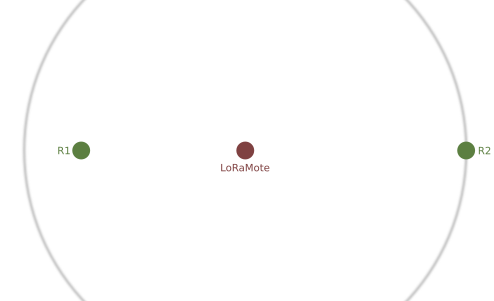
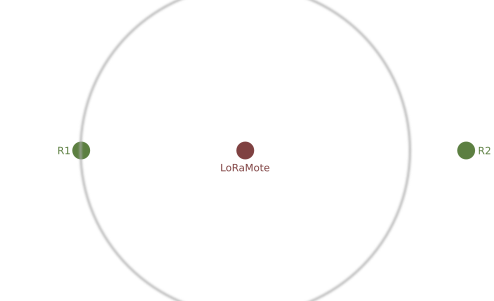
Added images and slides

diff --git a/index.html b/index.html
@@ -39,20 +39,6 @@
                     <p style="font-size: 150%"><a href="https://selinux.github.io/presentation_LoRa_Bachelor">https://goo.gl/wVitFB</a></p>
                 </section>
 
-                    <section>
-                         <div data-svg-fragment="images/schema_DToA_2d_test.svg"></div>
-                    </section>
-                    <section data-transition="none">
-<!--                        Conversion du temps en distance
-<hr>-->
-                        <div data-svg-fragment="images/schema_DToA_2d.svg#[*|label=slide0]">
-                          <a class="fragment" href="[*|label=slide1]"></a>
-                          <a class="fragment" href="[*|label=slide2]"></a>
-                          <a class="fragment" href="[*|label=slide3]"></a>
-                          <a class="fragment" href="[*|label=slide4]"></a>
-                          <a class="fragment" href="[*|label=slide5]"></a>
-                        </div>
-                    </section>
                 <!-- Title -->
                 <section> 
                     <img src="logo_hepia.png" width="2300">
@@ -144,9 +130,9 @@
                         <p class="fragment fade-in" style="font-size: 80%" align=left>Les récepteurs ont besoin d'être synchronisés</p>
                         <p class="fragment fade-in" style="font-size: 80%" align=left>Le réseau GPS est utilisé comme source de temps par les récepteurs</p>
                     </section>
-                    <section data-transition="none">
-<!--                        Conversion du temps en distance
-<hr>-->
+                    <!-- <section data-transition="none">
+                        Conversion du temps en distance
+                        <hr>
                         <div data-svg-fragment="images/schema_DToA_2d.svg#[*|label=slide0]">
                           <a class="fragment" href="[*|label=slide1]"></a>
                           <a class="fragment" href="[*|label=slide2]"></a>
@@ -154,9 +140,13 @@
                           <a class="fragment" href="[*|label=slide4]"></a>
                           <a class="fragment" href="[*|label=slide5]"></a>
                         </div>
+                    </section> -->
+                    <section data-transition="none">
+                        Conversion du temps en distance
+                        <hr>
+                        <img src="images/schema_DToA_2d_0.png" height="500">
                     </section>
                     <section data-transition="none">
-                         <div data-svg-fragment="images/schema_DToA_2d.svg"></div>
                         Conversion du temps en distance
                         <hr>
                         <img src="images/schema_DToA_2d_1.png" height="500">
@@ -170,6 +160,24 @@
                         Conversion du temps en distance
                         <hr>
                         <img src="images/schema_DToA_2d_3.png" height="500">
+                    </section>
+                    <section data-transition="none">
+                        Conversion du temps en distance
+                        <hr>
+                        <img src="images/schema_DToA_2d_4.png" height="500">
+                    </section>
+                    <section data-transition="none">
+                        Conversion du temps en distance
+                        <hr>
+                        <img src="images/schema_DToA_2d_5.png" height="500">
+                    </section>
+                    <!-- Notion de temps -->
+                    <section data-transition="none">
+                        Notions de temps et de distances
+                        <hr>
+                        <p class="fragment fade-in" style="font-size: 80%" align=left>La vitesse de propagation d'une onde RF est de 2/3 de la vitesse de la lumière</p>
+                        <p class="fragment fade-in" style="font-size: 80%" align=left>Une onde RF parcours 1 mètre en 4-5 ns</p>
+                        <p class="fragment fade-in" style="font-size: 80%" align=left>50 MHz == à un période de 20 ns soit 4 mètres</p>
                     </section>
                 </section>
 
@@ -238,6 +246,7 @@
                     <section>
                         La synchronisation des récepteurs
                         <hr>
+                        <img style="float: center" src="images/img_counter_basys3.png" height="550">
                     </section>
                 </section>
 
@@ -330,6 +339,7 @@
                 // More info about config & dependencies:
 			    // - https://github.com/hakimel/reveal.js#configuration
 			    // - https://github.com/hakimel/reveal.js#dependencies
+
 			    Reveal.initialize({
                     //minScale: 0.2,
                     //maxScale: 1.0,
@@ -357,15 +367,15 @@
              },
 
     		dependencies: [
+                { src: 'lib/js/classList.js', condition: function() { return !document.body.classList; } },
 				{ src: 'plugin/markdown/marked.js' },
 				{ src: 'plugin/markdown/markdown.js' },
 				{ src: 'plugin/notes/notes.js', async: true },
 				{ src: 'plugin/highlight/highlight.js', async: true, callback: function() { hljs.initHighlightingOnLoad(); } },
                 { src: 'plugin/math/math.js', async: true },
                 { src: 'plugin/toc-progress/toc-progress.js', async: true, callback: function() { toc_progress.initialize(); toc_progress.create(); } },
-                { src: 'reveal-svg-fragment.js', 
-                    condition: function() { return !!document.querySelector( '[data-svg-fragment]' ); } 
-                },
+                { src: 'plugin/zoom-js/zoom.js', async: true, condition: function() { return !!document.body.classList; } },
+<!--                { src: 'plugin/reveal-svg-fragment.js', condition: function() { return !!document.querySelector( '[data-svg-fragment]' ); } }, -->
                 // Zoom in and out with Alt+click
 	            { src: 'plugin/zoom-js/zoom.js', async: true },
                 // Speaker notes

diff --git a/plugin/reveal-svg-fragment.js b/plugin/reveal-svg-fragment.js
@@ -1,0 +1,190 @@
+/*
+Copyright (C) 2014 Nicholas Bollweg
+
+Permission is hereby granted, free of charge, to any person obtaining a copy
+of this software and associated documentation files (the "Software"), to deal
+in the Software without restriction, including without limitation the rights
+to use, copy, modify, merge, publish, distribute, sublicense, and/or sell
+copies of the Software, and to permit persons to whom the Software is
+furnished to do so, subject to the following conditions:
+
+The above copyright notice and this permission notice shall be included in
+all copies or substantial portions of the Software.
+
+THE SOFTWARE IS PROVIDED "AS IS", WITHOUT WARRANTY OF ANY KIND, EXPRESS OR
+IMPLIED, INCLUDING BUT NOT LIMITED TO THE WARRANTIES OF MERCHANTABILITY,
+FITNESS FOR A PARTICULAR PURPOSE AND NONINFRINGEMENT. IN NO EVENT SHALL THE
+AUTHORS OR COPYRIGHT HOLDERS BE LIABLE FOR ANY CLAIM, DAMAGES OR OTHER
+LIABILITY, WHETHER IN AN ACTION OF CONTRACT, TORT OR OTHERWISE, ARISING FROM,
+OUT OF OR IN CONNECTION WITH THE SOFTWARE OR THE USE OR OTHER DEALINGS IN
+THE SOFTWARE.
+*/
+
+;Reveal.SvgFragment = (function(Reveal){
+  "use strict";
+  var window = this,
+    document = window.document,
+    proto = window.location.protocol,
+    local = proto === "file:",
+    d3 = window.d3,
+    defaults = {
+      d3: (local ? "http:" : proto) + "//cdn.jsdelivr.net/d3js/latest/d3.min.js",
+      selector: "title"
+    };
+
+  // the main function, to be called when d3 is available
+  function api(){
+    d3 = d3 || window.d3;
+    var container = d3.selectAll("[data-svg-fragment]"),
+      slides = d3.select(".slides");
+      
+    container.data(function(){
+      return container[0].map(function(d){
+        var $ = d3.select(d);
+        return {
+          container: $,
+          url: $.attr("data-svg-fragment")
+        };
+      });
+    });
+
+    container.append("iframe")
+      .attr({
+        src: function(item){ return item.url; },
+        // TODO: make this an option?
+        scrolling: "no"
+      })
+      .on("load", api.iframed);
+
+    Reveal.addEventListener("fragmentshown", api.listen(container, true));
+    Reveal.addEventListener("fragmenthidden", api.listen(container));
+
+    return api;
+  };
+
+
+  // generate listeners for reveal events
+  api.listen = function(container, show){
+    return function(event){
+      var fragment = d3.select(event.fragment);
+      container.filter(function(){
+        return this === event.fragment.parentNode;
+      }).each(function(item){
+        api.toggle(fragment, item, show);
+      });
+
+      return api;
+    };
+  };
+
+
+  // toggle a fragment
+  // TODO: add hide
+  api.toggle = function(fragment, item, show){
+    if(!item.svg){ return; }
+    var selector = fragment.attr(api.cfg("selector"));
+    item.svg.selectAll(selector)
+      .transition()
+      .style({opacity: show ? 1 : 0});
+
+    return api;
+  };
+
+
+  // the iframe was created for this item
+  api.iframed = function(item){
+    item.iframe = d3.select(this);
+    item.idoc = d3.select(this.contentDocument);
+    item.svg = item.idoc.select("svg");
+    item.dims = {
+      width: item.svg.attr("width") || 100,
+      height: item.svg.attr("height") || 100
+    };
+    item.iframe.attr(item.dims);
+    // see https://groups.google.com/forum/#!topic/d3-js/mTBxTLi0q1o
+    item.svg.attr({
+      width: "100%",
+      height: "100%",
+      viewBox: "0 0 "+ item.dims.width + " " + item.dims.height
+    });
+
+    return api.clean(item);
+  };
+
+  // prepare
+  // TODO: smarter initialization?
+  api.clean = function(item){
+    var base;
+    item.container.selectAll(".fragment").each(function(){
+      item.svg.selectAll(d3.select(this).attr(api.cfg("selector")))
+        .style({opacity: 0});
+    });
+
+    if(base = item.url.match(/(?:#)(.*)$/)){
+      item.svg.selectAll(base[1])
+        .style({opacity: 1});
+    }
+
+    return api;
+  };
+
+
+  // preflight, call immediately it d3 is available, otherwise load the script
+  api.init = function(){
+    var options = Reveal.getConfig().svgFragment || {};
+    if(window.d3){
+      api();
+    }else if(window.require){
+      require([api.cfg("d3")], function(_d3){
+        d3 = _d3;
+        api();
+      });
+    }else{
+      api.load(api.cfg("d3"), api);
+    }
+    return api;
+  };
+
+
+  // get configuration values (or defaults)
+  api.cfg = function(opt){
+    var cfg = Reveal.getConfig().svgFragment || {};
+
+    return cfg.hasOwnProperty(opt) ? cfg[opt] :
+      defaults.hasOwnProperty(opt) ? defaults[opt] :
+      function(){ throw new Error("Unknown property: "+ opt); };
+  };
+
+
+  // load a script, jacked from search, i think
+  api.load = function(url, callback){
+    var head = document.querySelector('head'),
+      script = document.createElement('script');
+
+    // Wrapper for callback to make sure it only fires once
+    var finish = function(){
+      if(typeof callback === 'function') {
+        callback.call();
+        callback = null;
+      }
+    };
+
+    // IE
+    script.onreadystatechange = function() {
+      if (this.readyState === 'loaded') {
+        finish();
+      }
+    };
+    script.type = 'text/javascript';
+    script.src = url;
+    script.onload = finish;
+
+    // Normal browsers
+    head.appendChild(script);
+
+    return api;
+  };
+
+
+  return api.init();
+}).call(this, Reveal);
